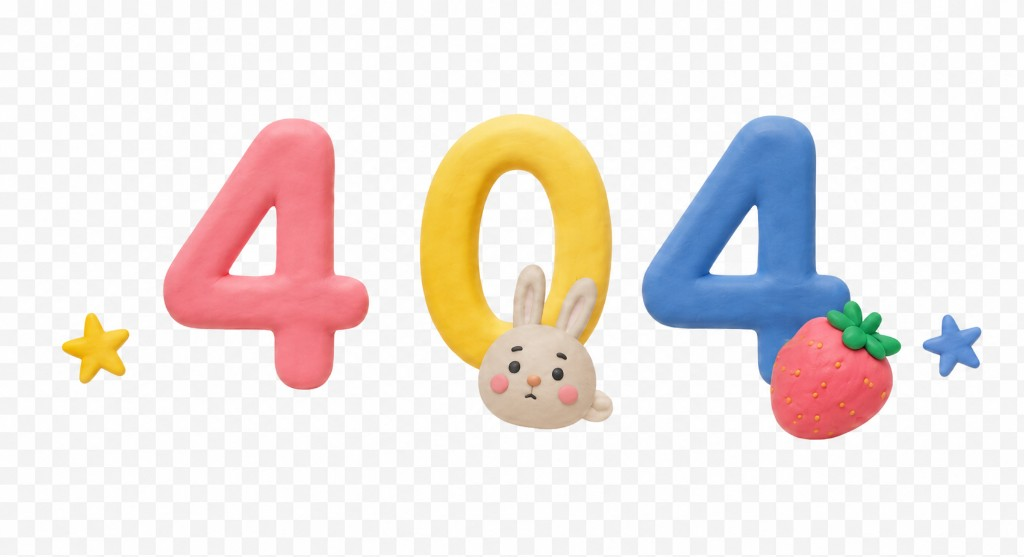
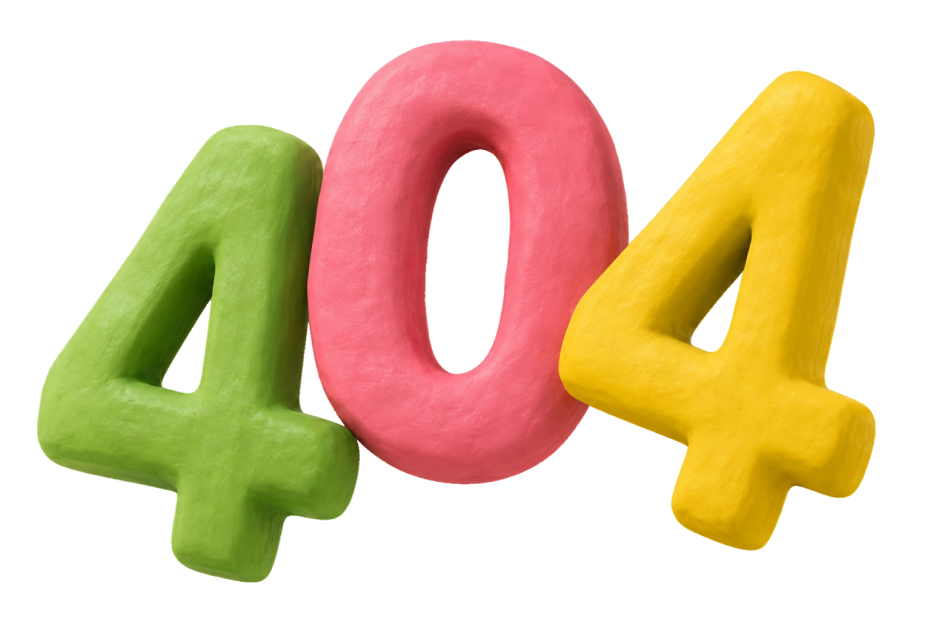
Enhance 404 page with new illustration and layout improvements: Added NotFoundIllustrationScene component for a more engaging visual experience. Updated NotFoundPageContent to utilize the new illustration and adjusted styles for better spacing. Modified constants for illustration dimensions and loca

diff --git a/src/components/not-found/NotFoundIllustrationScene.tsx b/src/components/not-found/NotFoundIllustrationScene.tsx
@@ -1,0 +1,99 @@
+import Image from 'next/image';
+import {
+  NOT_FOUND_ASSETS,
+  NOT_FOUND_DECO_BUNNY_FLIP_X,
+  NOT_FOUND_DECO_BUNNY_FLIP_Y,
+  NOT_FOUND_DECO_BUNNY_LEFT_PERCENT,
+  NOT_FOUND_DECO_BUNNY_ROTATE_DEG,
+  NOT_FOUND_DECO_BUNNY_SIZE_PX,
+  NOT_FOUND_DECO_BUNNY_TOP_PERCENT,
+  NOT_FOUND_DECO_RIGHT_LEFT_PERCENT,
+  NOT_FOUND_DECO_RIGHT_ROTATE_DEG,
+  NOT_FOUND_DECO_RIGHT_TOP_PERCENT,
+  NOT_FOUND_DECO_RIGHT_WIDTH_PERCENT,
+  NOT_FOUND_ILLUSTRATION_HEIGHT_PX,
+  NOT_FOUND_ILLUSTRATION_LIFT_PX,
+  NOT_FOUND_ILLUSTRATION_MAX_WIDTH_PX,
+  NOT_FOUND_ILLUSTRATION_WIDTH_PX,
+} from '../../constants/not-found-page';
+
+function buildBunnyTransform(): string {
+  return [
+    NOT_FOUND_DECO_BUNNY_FLIP_X ? 'scaleX(-1)' : '',
+    NOT_FOUND_DECO_BUNNY_FLIP_Y ? 'scaleY(-1)' : '',
+    `rotate(${NOT_FOUND_DECO_BUNNY_ROTATE_DEG}deg)`,
+  ]
+    .filter(Boolean)
+    .join(' ');
+}
+
+/** Figma `276:676` — 404 clay art with homepage bunny and music-note overlay. */
+export function NotFoundIllustrationScene() {
+  return (
+    <div
+      className="relative w-full overflow-visible"
+      style={{
+        maxWidth: NOT_FOUND_ILLUSTRATION_MAX_WIDTH_PX,
+        transform: `translateY(-${NOT_FOUND_ILLUSTRATION_LIFT_PX}px)`,
+      }}
+    >
+      <Image
+        src={NOT_FOUND_ASSETS.illustration}
+        alt=""
+        width={NOT_FOUND_ILLUSTRATION_WIDTH_PX}
+        height={NOT_FOUND_ILLUSTRATION_HEIGHT_PX}
+        priority
+        aria-hidden
+        className="h-auto w-full object-contain"
+        sizes="(max-width: 1024px) 100vw, 930px"
+      />
+
+      <div
+        aria-hidden
+        className="pointer-events-none absolute aspect-square"
+        style={{
+          left: `${NOT_FOUND_DECO_RIGHT_LEFT_PERCENT}%`,
+          top: `${NOT_FOUND_DECO_RIGHT_TOP_PERCENT}%`,
+          width: `${NOT_FOUND_DECO_RIGHT_WIDTH_PERCENT}%`,
+          transform: `rotate(${NOT_FOUND_DECO_RIGHT_ROTATE_DEG}deg)`,
+        }}
+      >
+        <Image
+          src={NOT_FOUND_ASSETS.decoRight}
+          alt=""
+          fill
+          className="object-contain"
+          sizes="125px"
+        />
+      </div>
+
+      <div
+        aria-hidden
+        className="pointer-events-none absolute flex items-center justify-center"
+        style={{
+          left: `${NOT_FOUND_DECO_BUNNY_LEFT_PERCENT}%`,
+          top: `${NOT_FOUND_DECO_BUNNY_TOP_PERCENT}%`,
+          width: NOT_FOUND_DECO_BUNNY_SIZE_PX,
+          height: NOT_FOUND_DECO_BUNNY_SIZE_PX,
+        }}
+      >
+        <div
+          className="relative shrink-0"
+          style={{
+            width: NOT_FOUND_DECO_BUNNY_SIZE_PX,
+            height: NOT_FOUND_DECO_BUNNY_SIZE_PX,
+            transform: buildBunnyTransform(),
+          }}
+        >
+          <Image
+            src={NOT_FOUND_ASSETS.decoBunny}
+            alt=""
+            fill
+            className="object-cover"
+            sizes={`${NOT_FOUND_DECO_BUNNY_SIZE_PX}px`}
+          />
+        </div>
+      </div>
+    </div>
+  );
+}

diff --git a/src/constants/not-found-page.ts b/src/constants/not-found-page.ts
@@ -1,15 +1,17 @@
 import { BRAND_COLORS } from './brand';
-import { HERO_GENDER_BUTTON_BOYS_BG_COLOR } from './hero';
+import { ABOUT_US_ASSETS } from './about-us-section';
+import { HERO_GENDER_BUTTON_BOYS_BG_COLOR, HERO_GENDER_BUTTONS_GAP_PX } from './hero';
 import {
   HOME_SECTION_CONTENT_MAX_WIDTH_PX,
   HOME_SECTION_PADDING_LEFT_PX,
   HOME_SECTION_PADDING_RIGHT_PX,
 } from './home-sections';
 
-/** Figma 404 page — clay illustration source dimensions. */
-export const NOT_FOUND_ILLUSTRATION_WIDTH_PX = 1024;
-export const NOT_FOUND_ILLUSTRATION_HEIGHT_PX = 557;
-export const NOT_FOUND_ILLUSTRATION_MAX_WIDTH_PX = 560;
+export const NOT_FOUND_ILLUSTRATION_WIDTH_PX = 930;
+export const NOT_FOUND_ILLUSTRATION_HEIGHT_PX = 620;
+export const NOT_FOUND_ILLUSTRATION_MAX_WIDTH_PX = 930;
+/** Lift only the 404 art; title and buttons keep their own spacing. */
+export const NOT_FOUND_ILLUSTRATION_LIFT_PX = 48;
 
 export const NOT_FOUND_SECTION_PADDING_TOP_PX = 24;
 export const NOT_FOUND_SECTION_PADDING_BOTTOM_PX = 48;
@@ -17,12 +19,15 @@ export const NOT_FOUND_CONTENT_MAX_WIDTH_PX = HOME_SECTION_CONTENT_MAX_WIDTH_PX;
 export const NOT_FOUND_CONTENT_PADDING_X_PX =
   HOME_SECTION_PADDING_LEFT_PX + HOME_SECTION_PADDING_RIGHT_PX;
 
-export const NOT_FOUND_TITLE_FONT_SIZE_PX = 32;
-export const NOT_FOUND_TITLE_LINE_HEIGHT = 1.2;
-export const NOT_FOUND_TITLE_COLOR = '#1c1b1b';
-export const NOT_FOUND_TITLE_TO_ACTIONS_GAP_PX = 32;
+/** Figma `276:681` — title below illustration. */
+export const NOT_FOUND_TITLE_FONT_SIZE_PX = 30;
+export const NOT_FOUND_TITLE_LINE_HEIGHT = 1.1;
+export const NOT_FOUND_TITLE_COLOR = BRAND_COLORS.pink;
+export const NOT_FOUND_TITLE_TRACKING_PX = -0.45;
+export const NOT_FOUND_ILLUSTRATION_TO_TITLE_GAP_PX = -66;
+export const NOT_FOUND_TITLE_TO_ACTIONS_GAP_PX = 24;
 
-export const NOT_FOUND_ACTIONS_GAP_PX = 16;
+export const NOT_FOUND_ACTIONS_GAP_PX = HERO_GENDER_BUTTONS_GAP_PX;
 
 export const NOT_FOUND_BUTTON_MIN_WIDTH_PX = 220;
 export const NOT_FOUND_BUTTON_ICON_SIZE_PX = 20;
@@ -31,7 +36,23 @@ export const NOT_FOUND_BUTTON_ICON_GAP_PX = 10;
 export const NOT_FOUND_HOME_BUTTON_BG = BRAND_COLORS.pink;
 export const NOT_FOUND_SHOP_BUTTON_BG = HERO_GENDER_BUTTON_BOYS_BG_COLOR;
 
+/** Figma `276:677` — right decoration on illustration. */
+export const NOT_FOUND_DECO_RIGHT_WIDTH_PERCENT = 13.44;
+export const NOT_FOUND_DECO_RIGHT_LEFT_PERCENT = 62.07;
+export const NOT_FOUND_DECO_RIGHT_TOP_PERCENT = 0.36;
+export const NOT_FOUND_DECO_RIGHT_ROTATE_DEG = -1.13;
+
+/** Homepage about-us bunny — reused on 404 green «4». */
+export const NOT_FOUND_DECO_BUNNY_SIZE_PX = 156;
+export const NOT_FOUND_DECO_BUNNY_LEFT_PERCENT = 2;
+export const NOT_FOUND_DECO_BUNNY_TOP_PERCENT = 28;
+export const NOT_FOUND_DECO_BUNNY_ROTATE_DEG = -168.97;
+export const NOT_FOUND_DECO_BUNNY_FLIP_X = false;
+export const NOT_FOUND_DECO_BUNNY_FLIP_Y = true;
+
 export const NOT_FOUND_ASSETS = {
   illustration: '/assets/not-found/404-illustration.png',
+  decoBunny: ABOUT_US_ASSETS.decoBunny,
+  decoRight: '/assets/not-found/deco-right.png',
   iconCart: '/assets/brand/icon-cart.svg',
 } as const;

diff --git a/src/components/not-found/NotFoundPageContent.tsx b/src/components/not-found/NotFoundPageContent.tsx
@@ -1,29 +1,27 @@
 'use client';
 
-import Image from 'next/image';
 import {
-  NOT_FOUND_ASSETS,
   NOT_FOUND_CONTENT_MAX_WIDTH_PX,
-  NOT_FOUND_ILLUSTRATION_HEIGHT_PX,
-  NOT_FOUND_ILLUSTRATION_MAX_WIDTH_PX,
-  NOT_FOUND_ILLUSTRATION_WIDTH_PX,
+  NOT_FOUND_ILLUSTRATION_TO_TITLE_GAP_PX,
   NOT_FOUND_SECTION_PADDING_BOTTOM_PX,
   NOT_FOUND_SECTION_PADDING_TOP_PX,
   NOT_FOUND_TITLE_COLOR,
   NOT_FOUND_TITLE_FONT_SIZE_PX,
   NOT_FOUND_TITLE_LINE_HEIGHT,
   NOT_FOUND_TITLE_TO_ACTIONS_GAP_PX,
+  NOT_FOUND_TITLE_TRACKING_PX,
 } from '../../constants/not-found-page';
 import { useTranslation } from '../../lib/i18n-client';
 import { NotFoundActions } from './NotFoundActions';
+import { NotFoundIllustrationScene } from './NotFoundIllustrationScene';
 
-/** Figma 404 page — clay illustration, title, and CTAs. */
+/** Figma `276:534` — clay 404 scene, title, and CTAs. */
 export function NotFoundPageContent() {
   const { t } = useTranslation();
 
   return (
     <section
-      className="relative flex w-full flex-1 flex-col justify-center overflow-hidden bg-white"
+      className="relative flex w-full flex-1 flex-col justify-center overflow-visible bg-white"
       style={{
         paddingTop: NOT_FOUND_SECTION_PADDING_TOP_PX,
         paddingBottom: NOT_FOUND_SECTION_PADDING_BOTTOM_PX,
@@ -33,24 +31,16 @@ export function NotFoundPageContent() {
         className="relative z-10 mx-auto flex w-full flex-col items-center px-4 sm:px-6"
         style={{ maxWidth: NOT_FOUND_CONTENT_MAX_WIDTH_PX }}
       >
-        <div className="w-full" style={{ maxWidth: NOT_FOUND_ILLUSTRATION_MAX_WIDTH_PX }}>
-          <Image
-            src={NOT_FOUND_ASSETS.illustration}
-            alt=""
-            width={NOT_FOUND_ILLUSTRATION_WIDTH_PX}
-            height={NOT_FOUND_ILLUSTRATION_HEIGHT_PX}
-            priority
-            aria-hidden
-            className="h-auto w-full object-contain"
-          />
-        </div>
+        <NotFoundIllustrationScene />
 
         <h1
-          className="mt-6 text-center font-bold"
+          className="text-center font-semibold"
           style={{
             color: NOT_FOUND_TITLE_COLOR,
             fontSize: NOT_FOUND_TITLE_FONT_SIZE_PX,
             lineHeight: NOT_FOUND_TITLE_LINE_HEIGHT,
+            letterSpacing: `${NOT_FOUND_TITLE_TRACKING_PX}px`,
+            marginTop: NOT_FOUND_ILLUSTRATION_TO_TITLE_GAP_PX,
           }}
         >
           {t('common.notFound.title')}